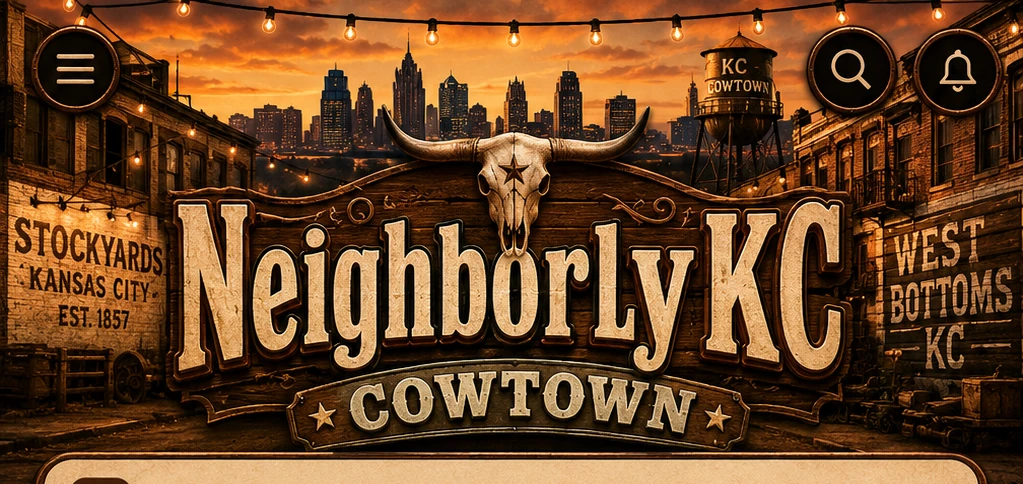
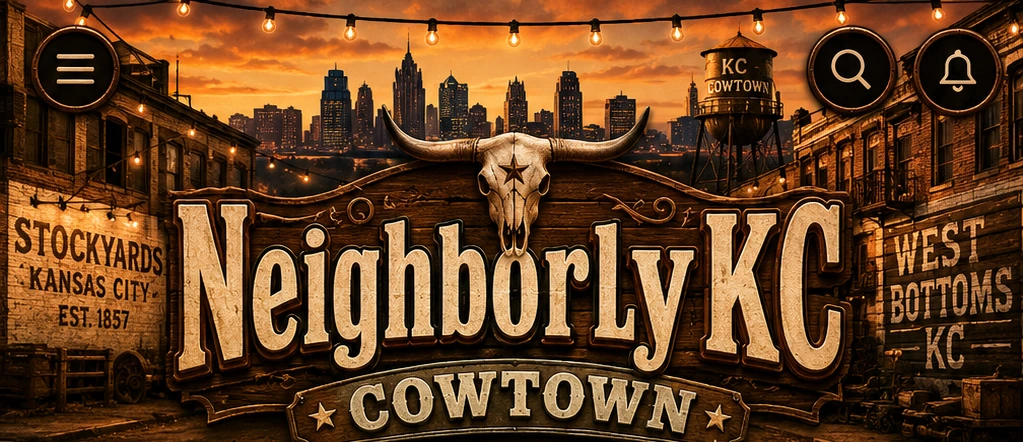
Add files via upload

diff --git a/app/globals.css b/app/globals.css
@@ -3394,7 +3394,7 @@ input::placeholder,textarea::placeholder{color:currentColor!important;opacity:.7
 @media(max-width:639px){
   .nkc-app-shell[data-theme="cowtown"] .nkc-mobile-top-header{padding:0 0 7px !important;background:#170d07 !important;border:0 !important;box-shadow:0 8px 20px rgba(0,0,0,.34) !important}
   .nkc-app-shell[data-theme="cowtown"] .nkc-mobile-top-row{
-    position:relative !important;width:100% !important;height:auto !important;aspect-ratio:1024/645 !important;padding:0 !important;
+    position:relative !important;width:100% !important;height:auto !important;aspect-ratio:1023/442 !important;padding:0 !important;
     background:url('/cowtown-scene/cowtown_header.webp') center/100% 100% no-repeat !important;border-bottom:2px solid #b96d26 !important;
   }
   .nkc-app-shell[data-theme="cowtown"] .nkc-mobile-brand,
